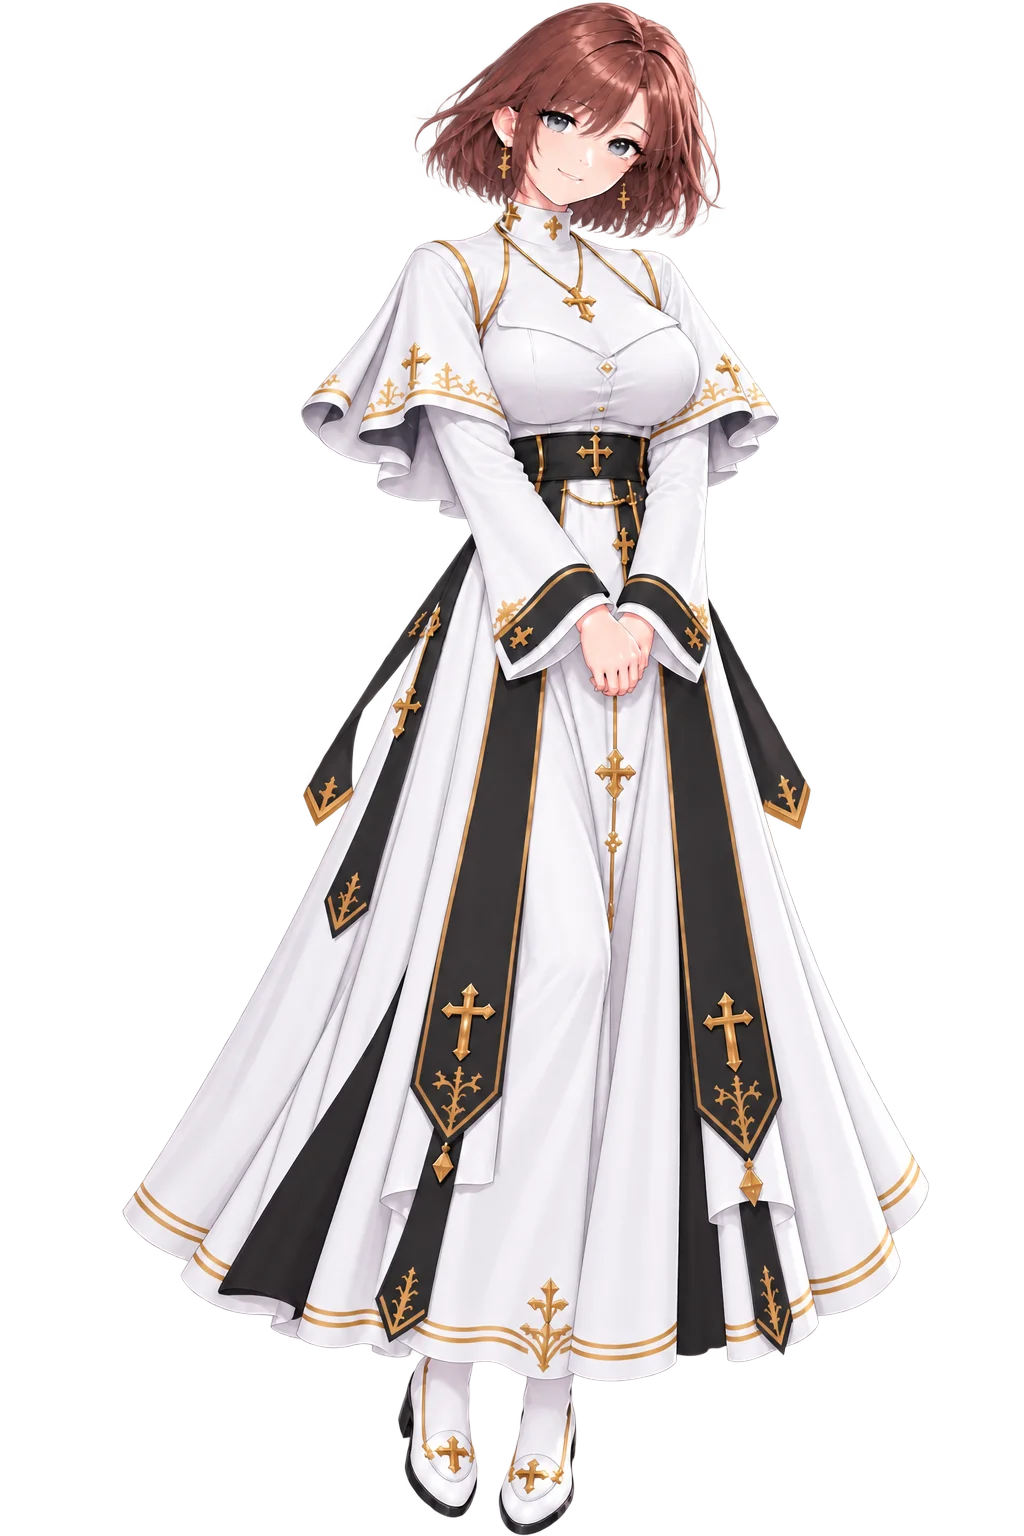
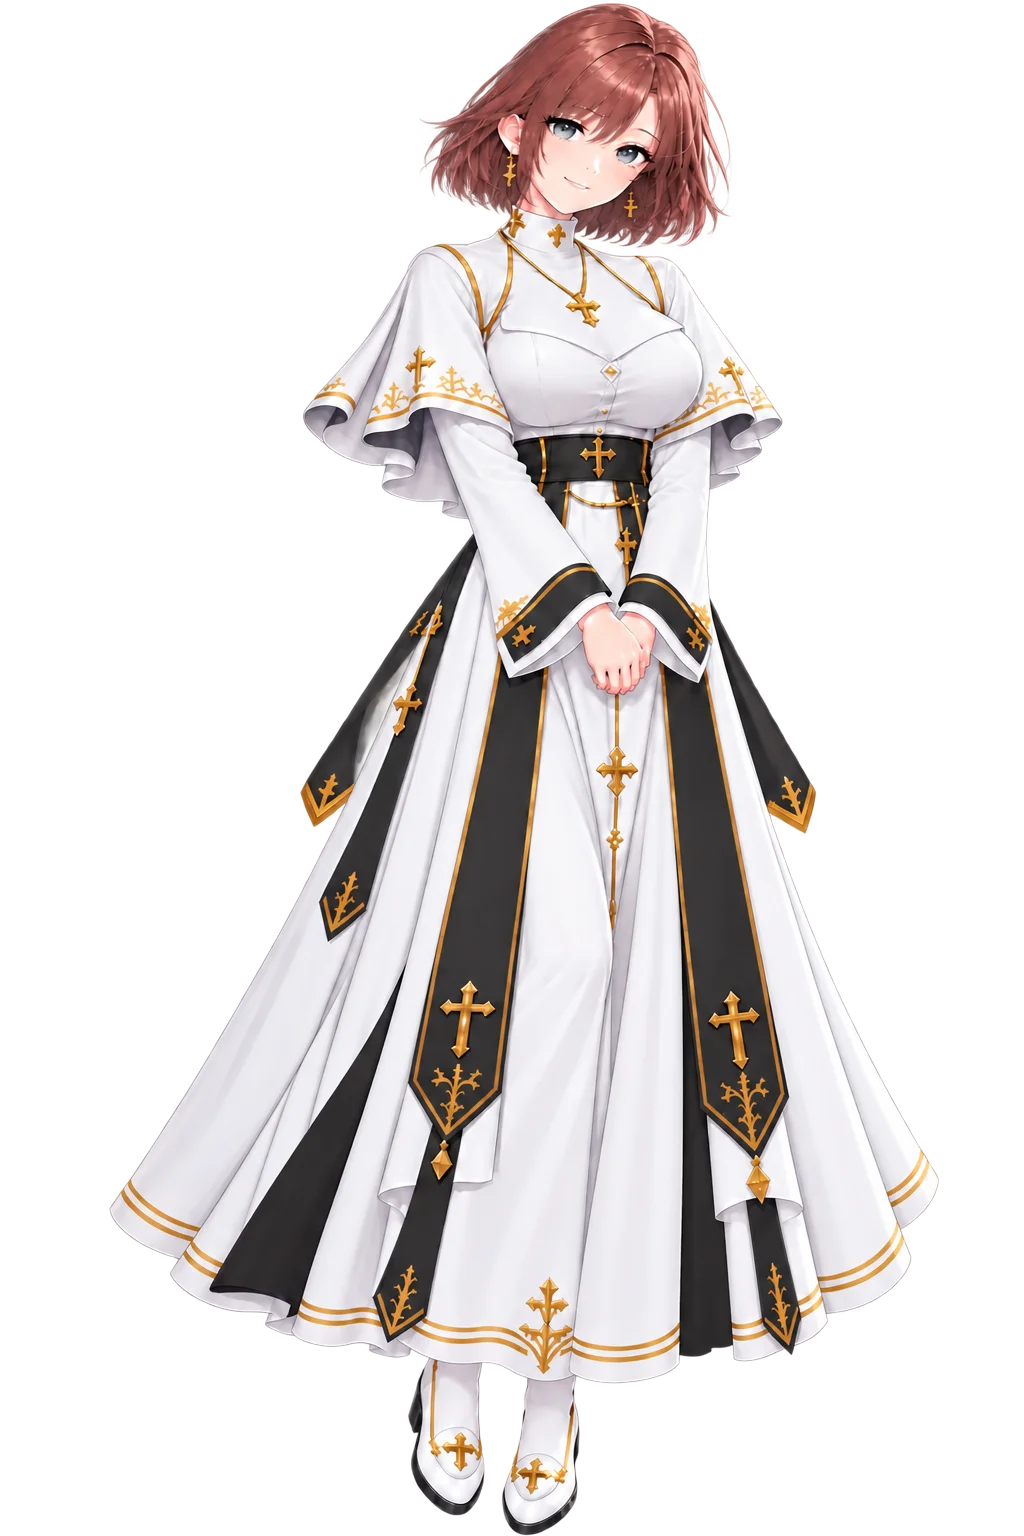
assets(story): 三張立繪換新版並轉 WebP＋重量取景；原圖備份規矩寫進 CLAUDE.md ver -357
- Luna_SI_seat_angry / Luna_SI_seat_hand / Nouvelle_SI_front 換新版：
  2658/2497/1618K → 328/275/137K，原 PNG 移進 resources/_originals/SI/。
- ⚠ 同名換圖一定要重量取景：seat_hand 的 bot 1536→1489、fx 0.465→0.546（人物內縮），
  沿用舊值會歪掉一大截。三張的 top/bot/fx 都已更新。
- CLAUDE.md §5 新增「原圖備份的規矩」：cwebp → 改路徑 → 原 PNG 進 _originals（不被載入、
  已 gitignore）；並註明 _originals 目前 133MB 只在本機，是可回滾不是異地備份。

diff --git a/script/speakers.js b/script/speakers.js
@@ -85,7 +85,7 @@ export const ART = {
            校準：同法量 front 得 0.571（表上 0.564，差 −0.007）、璐娜莉亞得 0.494
            （表上 0.496，差 +0.002）—— 兩個獨立校準都落在 ±0.007 內，所以直接用。
          · eye 沒量（CAST_EYE_MIX=0 不參與運算）。 */
-  nouvelle: { cm:165, eye:40, fx:0.564, top:1, bot:1535,
+  nouvelle: { cm:165, eye:40, fx:0.582, top:3, bot:1536,
            side:'L', alt:null, base:'resources/SI/Nouvelle_SI_front.webp',
            expr:{ run:      { src:'resources/SI/Nouvelle_SI_Run.webp',       top:13, bot:1533, fx:0.418 },
                   cringe:   { src:'resources/SI/Nouvelle_SI_Cringe.webp',    top:5,  bot:1533, fx:0.459 },
@@ -176,8 +176,8 @@ export const ART = {
                   /* ⚠ `seat_angry` 比其他三張坐姿再小一截：0.74 → **0.63**
                      （-353，Ray「seat_angry 再縮 15%」）。同一組坐姿吃不同的補償是刻意的，
                      補的是**那一張畫**的構圖差異（這張她往前傾、臉畫得比較大）。 */
-                  seat_angry: { src:'resources/SI/Luna_SI_seat_angry.webp', top:0, bot:1536, fx:0.521, faceAdj:0.63, standCm:155 },
-                  seat_hand:  { src:'resources/SI/Luna_SI_seat_hand.webp',  top:3, bot:1536, fx:0.465, faceAdj:0.74, standCm:155 } } },
+                  seat_angry: { src:'resources/SI/Luna_SI_seat_angry.webp', top:0, bot:1526, fx:0.539, faceAdj:0.63, standCm:155 },
+                  seat_hand:  { src:'resources/SI/Luna_SI_seat_hand.webp',  top:20, bot:1489, fx:0.546, faceAdj:0.74, standCm:155 } } },
   luna:   { cm:160, eye:30, fx:0.500, top:0, bot:1000,
            side:'L', alt:null, base:'resources/partner/Luna_CI_exc.webp', expr:{}, unmeasured:true },
 };

diff --git a/config.js b/config.js
@@ -16,7 +16,7 @@ import { ART } from './script/speakers.js';
 
 /* 版本號：顯示於診斷 HUD（首頁連點團徽 5 下開啟），每次部署遞增尾碼——
  *  用來確認手機（尤其 iOS 主畫面 App 的頑固快取）實際跑到的是哪一版。 */
-export const VERSION = 'ver 2026.08.24-356';
+export const VERSION = 'ver 2026.08.24-357';
 
 export const GAME_CONFIG = {
 

diff --git a/CLAUDE.md b/CLAUDE.md
@@ -142,6 +142,17 @@ SPEC.md             行為規格
 - ⚠ 露娜在對白裡目前借用 cut-in `partner/Luna_CI_exc.webp`（`speakers.js`
   標了 `unmeasured:true`）。`Luna_SI_seat` 是坐姿,還沒接進去。
 
+**原圖備份的規矩(ver -357,Ray 指定「以後被做成 webp 的原 png 圖找個不會被讀的地方存好備份」)**
+- 轉檔流程固定三步:①`cwebp` 出 `.webp` 到原位 ②`config.js`/`speakers.js` 指 `.webp`
+  ③**原 PNG 移進 `resources/_originals/<同層資料夾>/`**,絕不留在會被載入的目錄裡。
+- 為什麼是 `_originals`:底線開頭的資料夾**不會被遊戲載入**(同 `_master`/`_unused`),
+  而且已在 `.gitignore` 裡 —— 不進版控、不上靜態空間,但本機留著可回滾。
+- ⚠ **換圖(同名覆蓋)一定要重量取景值**:`top`/`bot`/`fx` 是**那一張圖**的數字。
+  實測 ver -357 換的三張:`Luna_SI_seat_hand` 的 `bot` 由 1536 變 1489、`fx` 由 0.465 變 0.546
+  —— 沿用舊值會歪掉一大截。量法見 §6.5「新增立繪要量什麼」。
+- ⚠ **`_originals` 目前只在本機**(133 MB,gitignore)。它是「可回滾」不是「異地備份」——
+  真的要防硬碟壞掉,要另外複製到雲端/外接;要不要改成入版控由 Ray 決定(repo 會多百餘 MB)。
+
 ⚠ SPEC 提到 `imageBase` 走 `assets/inspector/freya/...` 舊路徑——重寫時統一改為 `resources/` 新結構,與已完成的目錄一致。
 
 ---
